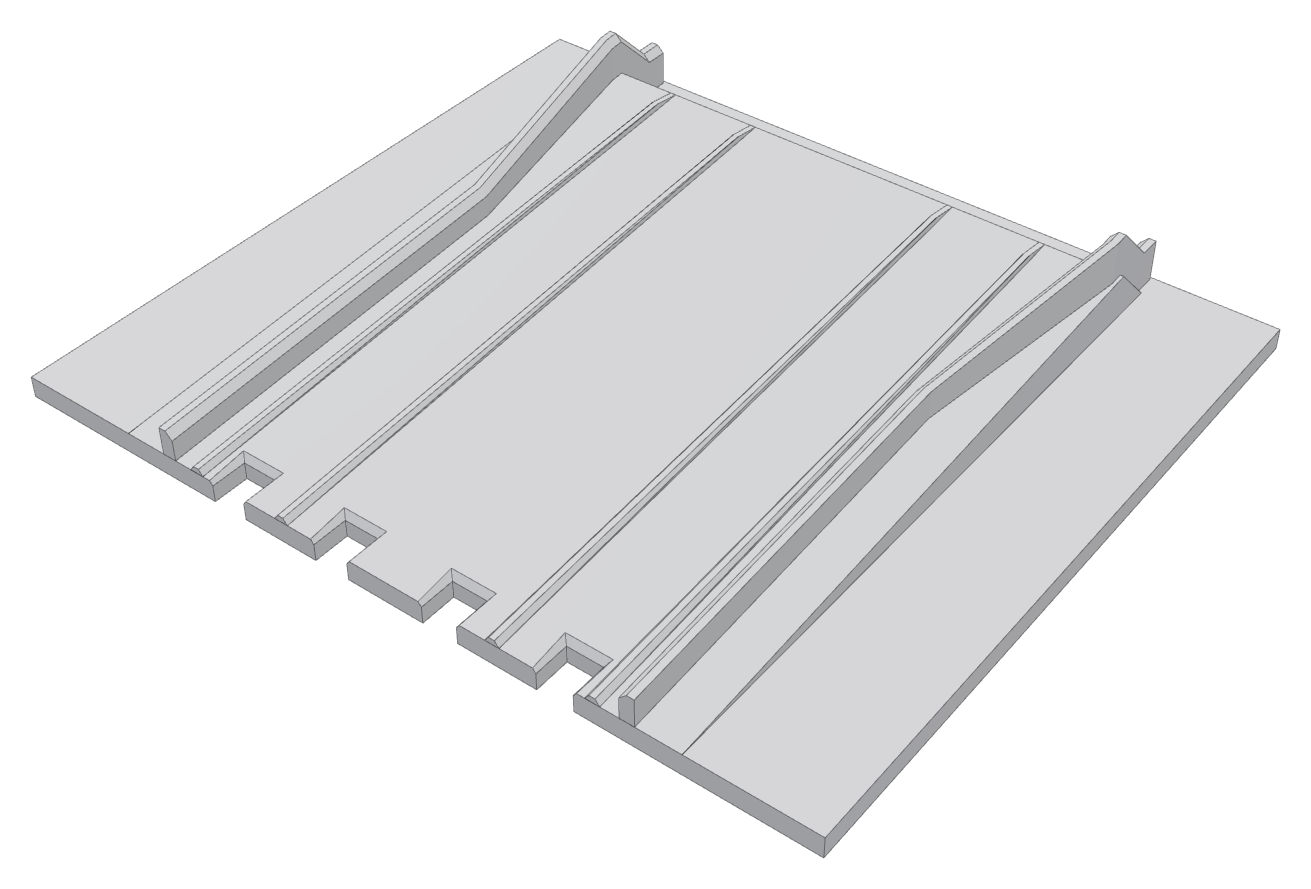
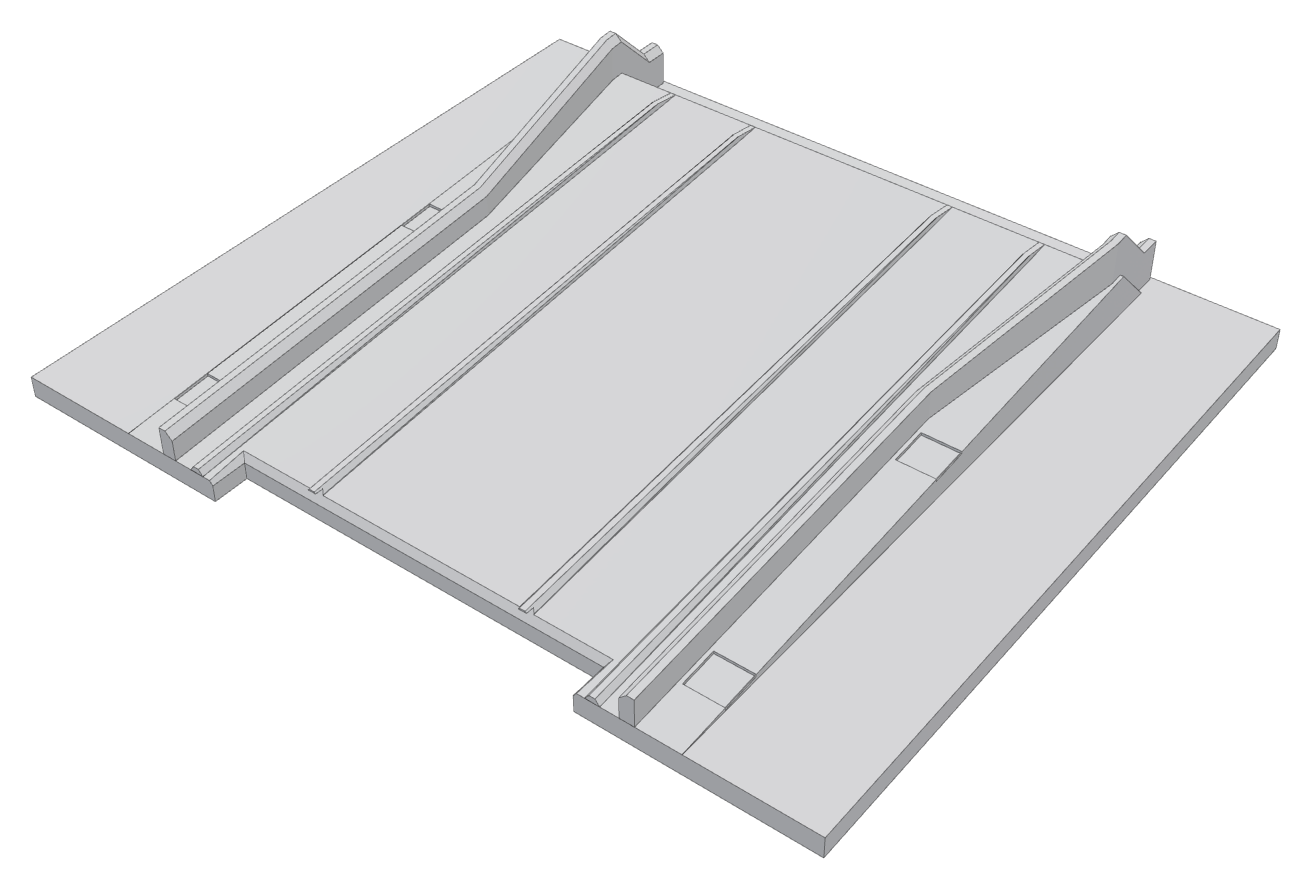
Scan bed v3: one stop bar and opening instead of four teeth, slippery print settings, camera marker pockets
- stop_gate3: one flat 51.6 mm stop bar (same horn, bearing and angles); CAD-checked against the
  plate and the tray at 22/25 degree tilts up to 40 degrees down
- bed_plate3: one chamfered opening for it, four 5 mm ArUco sticker pockets in the card's plane
- 3MF plate 1: 0.12 mm layers, 7 top layers, ironing on top surfaces; plate 3: the stop bar

diff --git a/mtg-sorter/hardware/bambu/make_small_projects.py b/mtg-sorter/hardware/bambu/make_small_projects.py
@@ -8,8 +8,8 @@ writes, next to this script:
   MTG_Sorter_Feeder_And_Bed_v2.3mf   everything for the new feeder and scan bed
   MTG_Sorter_Chute_v3.3mf            chute v3 (tray, doors, cranks, links, hinge frame) and the
                                      new front bridge with its bearing cap
-  MTG_Sorter_Scan_Bed_v3.3mf         scan bed v3 plate (steeper, centring channel, ribs) and the
-                                     all-plastic hopper weight
+  MTG_Sorter_Scan_Bed_v3.3mf         scan bed v3 plate (steeper, centring channel, ribs), the
+                                     all-plastic hopper weight and the one-bar stop gate
   MTG_Sorter_DC_Jack_Holder.3mf      holder + bezel for the servo-power barrel jack (dc_jack_holder.scad)
 
   python3 make_small_projects.py MTG_Sorter_DC_Jack_Holder.3mf   builds just that one
@@ -42,9 +42,13 @@ mp.PER_PART.update({
     "enc_bridge_cap": SOLID,
     "dc_jack_holder": STRUCTURAL,
     "dc_jack_bezel": STRUCTURAL,
-    # scan bed v3: fine layers so the 24° rib tops are smooth steps, not 0.2 mm stairs
-    "bed_chute_bed_plate3": {"layer_height": "0.12", "wall_loops": "3", "sparse_infill_density": "20%"},
+    # scan bed v3, slippery smooth: fine layers so the sloped rib tops are small steps, more top
+    # layers, and ironing on every top surface (the nozzle passes again with a little flow)
+    "bed_chute_bed_plate3": {"layer_height": "0.12", "wall_loops": "3", "sparse_infill_density": "20%",
+                             "top_shell_layers": "7", "top_surface_line_width": "0.4",
+                             "ironing_type": "top", "ironing_flow": "15%", "ironing_spacing": "0.1", "ironing_speed": "20"},
     "feeder_weight_solid": SOLID,
+    "bed_chute_stop_gate3": STRUCTURAL,
 })
 
 PROJECTS = {
@@ -66,6 +70,7 @@ PROJECTS = {
     "MTG_Sorter_Scan_Bed_v3.3mf": [
         ("1 Scan bed v3 plate (WHITE)", ["bed_chute_bed_plate3"]),
         ("2 Solid hopper weight (any colour, 100% infill)", ["feeder_weight_solid"]),
+        ("3 Stop bar, replaces the four-tooth stop gate (black)", ["bed_chute_stop_gate3"]),
     ],
     "MTG_Sorter_DC_Jack_Holder.3mf": [
         ("1 DC jack holder and bezel (black)", ["dc_jack_holder", "dc_jack_bezel"]),

diff --git a/mtg-sorter/hardware/SCAN_BED_V3.md b/mtg-sorter/hardware/SCAN_BED_V3.md
@@ -4,8 +4,9 @@ Print file: `bambu/MTG_Sorter_Scan_Bed_v3.3mf` (File > Open Project; answer **No
 
 | Plate | Part | Colour | Notes |
 |---|---|---|---|
-| 1 | `bed_plate3`, the new scan bed | **white** | 0.12 mm layers (set in the file), no supports, flat side down |
+| 1 | `bed_plate3`, the new scan bed | **white** | slippery-smooth settings set in the file (below), no supports, flat side down |
 | 2 | `weight_solid`, the hopper weight | any | 100 % infill (set in the file), about 95 g |
+| 3 | `stop_gate3`, one flat stop bar instead of the four teeth | black | same screws, horn and bearing as the old stop gate |
 
 ![bed v3 in the machine](img/bed3/bed3_in_machine.png)
 
@@ -18,7 +19,7 @@ stopping on the bed and not starting again, and sliding off slowly when the teet
   card slides off the hopper floor onto the bed (the old bed was 5 mm lower than the floor, so the card
   had to bend down onto it). The side walls stay as they are, so this is still a drop-in part. A
   steeper bed than this would mean new side walls, stop gate, gate bearing and a deck piece.
-- **A channel that centres the card.** 65 mm wide (card 63 + 1 mm each side) from the teeth to the
+- **A channel that centres the card.** 65 mm wide (card 63 + 1 mm each side) from the stop to the
   middle of the card, so the card sits square and in the middle, over the middle of the trapdoors,
   and leaves the bed that way. The walls are 4 mm tall (the old rails were 2.5 mm) and run right to
   the front edge. Above the card's middle they open out to 76 mm and get 6 mm tall, so a card coming
@@ -27,8 +28,18 @@ stopping on the bed and not starting again, and sliding off slowly when the teet
 - **Ribs instead of a flat face.** Four ribs, 0.8 mm tall, run down the slope and carry the card. Less
   contact, nothing for a foil or lint to stick to, and the print's diagonal top lines no longer touch
   the card. They ramp in at the top so a card's edge can't catch on their ends, and they run past the
-  teeth so the card slides off as soon as the teeth drop.
-- **Chamfered teeth slots**, so a card's edge can't dip into a slot.
+  stop so the card slides off as soon as the stop drops.
+- **One stop bar instead of four teeth.** The card's bottom edge stops against one flat bar 51.6 mm
+  wide (the width the four teeth spanned), coming up through one chamfered opening, so the edge sits
+  square and nothing pokes up between gaps. A wider bar would hit the tray's edge when it tilts
+  with the stop down.
+- **Marker pockets for the camera.** Four 5 mm square pockets, 0.4 mm deep, beside the walls, for
+  printed ArUco stickers (OpenCV DICT_4X4_50, ids 0-3), so the app can straighten the picture
+  exactly. They are cut in the 24° surface, in the card's plane (0.8 mm under its face). Centres, in mm,
+  measured along the surface from the front edge (u) and across from the middle (x, + = camera
+  tower side, seen from the camera with the stop at the bottom):
+  id 0 (-37.75, 10), id 1 (37.75, 10), id 2 (37.75, 50), id 3 (-37.75, 50): a 75.5 x 40 rectangle.
+  In machine coordinates: y 63.1 / z 174.1 for u = 10 and y 99.7 / z 190.3 for u = 50.
 
 ![plate](img/bed3/bed3_plate.png)
 ![card on the plate, seen from the camera](img/bed3/bed3_top_with_card.png)
@@ -37,22 +48,42 @@ stopping on the bed and not starting again, and sliding off slowly when the teet
 ## Fitting
 
 1. Pins down (Machine page), then slide the old plate forward out of the wall grooves, past the teeth.
-2. Slide the new plate in from the front, ribs up, the slotted edge at the front (the teeth side),
+   Swap the stop gate (step 5) while the plate is out.
+2. Slide the new plate in from the front, ribs up, the edge with the opening at the front (the stop side),
    until its back edge stops under the hopper floor like the old one.
-3. Pins up: the four teeth come up through the slots. No servo angle changes (130 up / 155 down).
-4. On the Machine page, feed one card and check it lands at the teeth. The camera stays where it was
+3. Pins up: the stop comes up through the opening. No servo angle changes (130 up / 155 down).
+4. On the Machine page, feed one card and check it lands at the stop. The camera stays where it was
    relative to the bed, so the saved landing zone should still work; the card is about 4 mm closer to
    the camera at its middle and tilted 4° to it.
 
+5. The stop bar replaces the old stop gate: unscrew the old one from the pin servo horn and the gate
+   bearing, fit the new one the same way. The old four-tooth gate also fits the new plate's opening.
+
 Checked in CAD (OpenSCAD intersections): the plate clears the hopper floor by 2 to 3 mm, the feeder
-gate, stand and arm, and the stop gate at every angle from 6° past up to 44° down.
+gate, stand and arm. The stop bar clears the plate from 6° past up to 44° down, the tray at every
+tilt (22° and 25° either way) up to 40° down, and with the doors open at every angle. Your 130 / 155 pin angles
+are about 25° apart.
+
+## Slippery-smooth settings (already in the 3MF, plate 1)
+
+| Setting | Value | Why |
+|---|---|---|
+| Layer height | 0.12 mm | the 4° slope prints as small steps instead of 0.2 mm stairs |
+| Top shell layers | 7 | a dense, flat top skin |
+| Top surface line width | 0.40 mm | finer lines on top |
+| Ironing | Top surfaces, flow 15 %, spacing 0.10 mm, speed 20 mm/s | the hot nozzle passes again over every top face and melts the lines flat |
+
+In Bambu Studio these show as object settings on the bed plate (right-click it > Edit / the
+object list). After printing, rub the rib tops lightly along the slope with 600-grit paper and wipe
+off the dust. Don't use spray, wax or lubricant: it rubs off onto the cards.
 
 ## Limits
 
 - **Sleeved cards don't fit** the 65 mm channel (they are 66 to 67 mm). Set `bp3_half` in
   `bed_chute.scad` to 34.5 and re-export if you ever sort sleeved cards.
-- The teeth stand 7 mm above the ribs (8 mm above the old flat bed). Cards that come in fast because
-  the feeder motor runs long can still ride over them; the feeder software fix is separate.
+- The stop bar stands 7 mm above the ribs (the teeth stood 8 mm above the old flat bed). Cards that
+  come in fast because the feeder motor runs long can still ride over it; the feeder software fix is
+  separate.
 - A card held under the feeder gate is a gate problem, not a bed problem: the bed adds pull, but it
   can't free a pinched card.
 
@@ -67,6 +98,7 @@ at 100 % infill.
 ## Rebuilding
 
     openscad -o stl/bed_chute_bed_plate3.stl -D 'part="bed_plate3"' bed_chute.scad
+    openscad -o stl/bed_chute_stop_gate3.stl -D 'part="stop_gate3"' bed_chute.scad
     openscad -o stl/feeder_weight_solid.stl -D 'part="weight_solid"' feeder.scad
     python3 bambu/make_small_projects.py MTG_Sorter_Scan_Bed_v3.3mf
     python3 guide/bed3/render.py     # the pictures (see the script for its needs)
